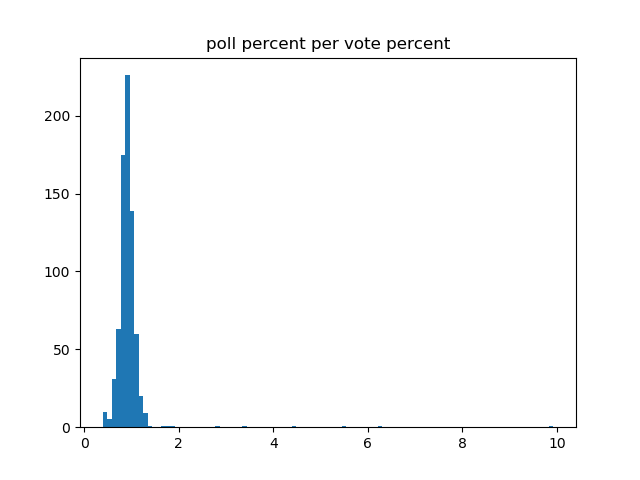
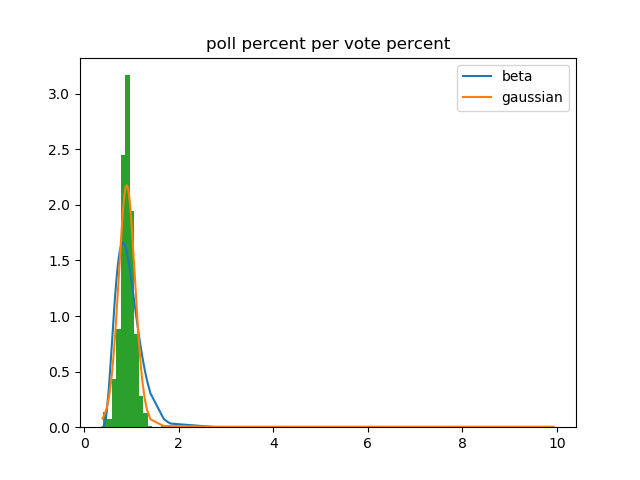
dists

diff --git a/real_data.py b/real_data.py
@@ -7,12 +7,13 @@ import csv
 from collections import defaultdict
 import matplotlib.pyplot as plt
 import numpy as np
+from scipy import stats
 
 def get_cands_votes(): 
     '''
     From FEC.
     Note: tere are some rows where the same candidate repeats
-    with different party. 
+    with different party.
     '''
     cands = {}
     data = './data/2014_house_election_results.csv'
@@ -113,7 +114,12 @@ def visualize_relationships():
     x = np.array(votes) / np.array(money)
     x = x[~np.isinf(x)]
     x = x[x < 10] # remove outliers
-    plt.hist(x, bins=100)
+    a, b, loc, scale = stats.beta.fit(x)
+    plt.plot(sorted(x), stats.beta.pdf(sorted(x), a, b, loc, scale), label='beta')
+    nparam_density = stats.kde.gaussian_kde(x)
+    plt.plot(sorted(x), nparam_density(sorted(x)), label='gaussian')
+    plt.hist(x, density=True, bins=200)
+    plt.legend()
     plt.savefig('./data/vote_per_money.png')
     plt.close()
     # % Votes - % Polls
@@ -128,7 +134,12 @@ def visualize_relationships():
     x = np.array(poll) / np.array(votes)
     x = x[~np.isinf(x)]
     x = x[x < 10] # remove outliers
-    plt.hist(x, bins=100)
+    a, b, loc, scale = stats.beta.fit(x)
+    plt.plot(sorted(x), stats.beta.pdf(sorted(x), a, b, loc, scale), label='beta')
+    nparam_density = stats.kde.gaussian_kde(x)
+    plt.plot(sorted(x), nparam_density(sorted(x)), label='gaussian')
+    plt.hist(x, density=True, bins=100)
+    plt.legend()
     plt.savefig('./data/poll_per_vote.png')
     plt.close()
 
